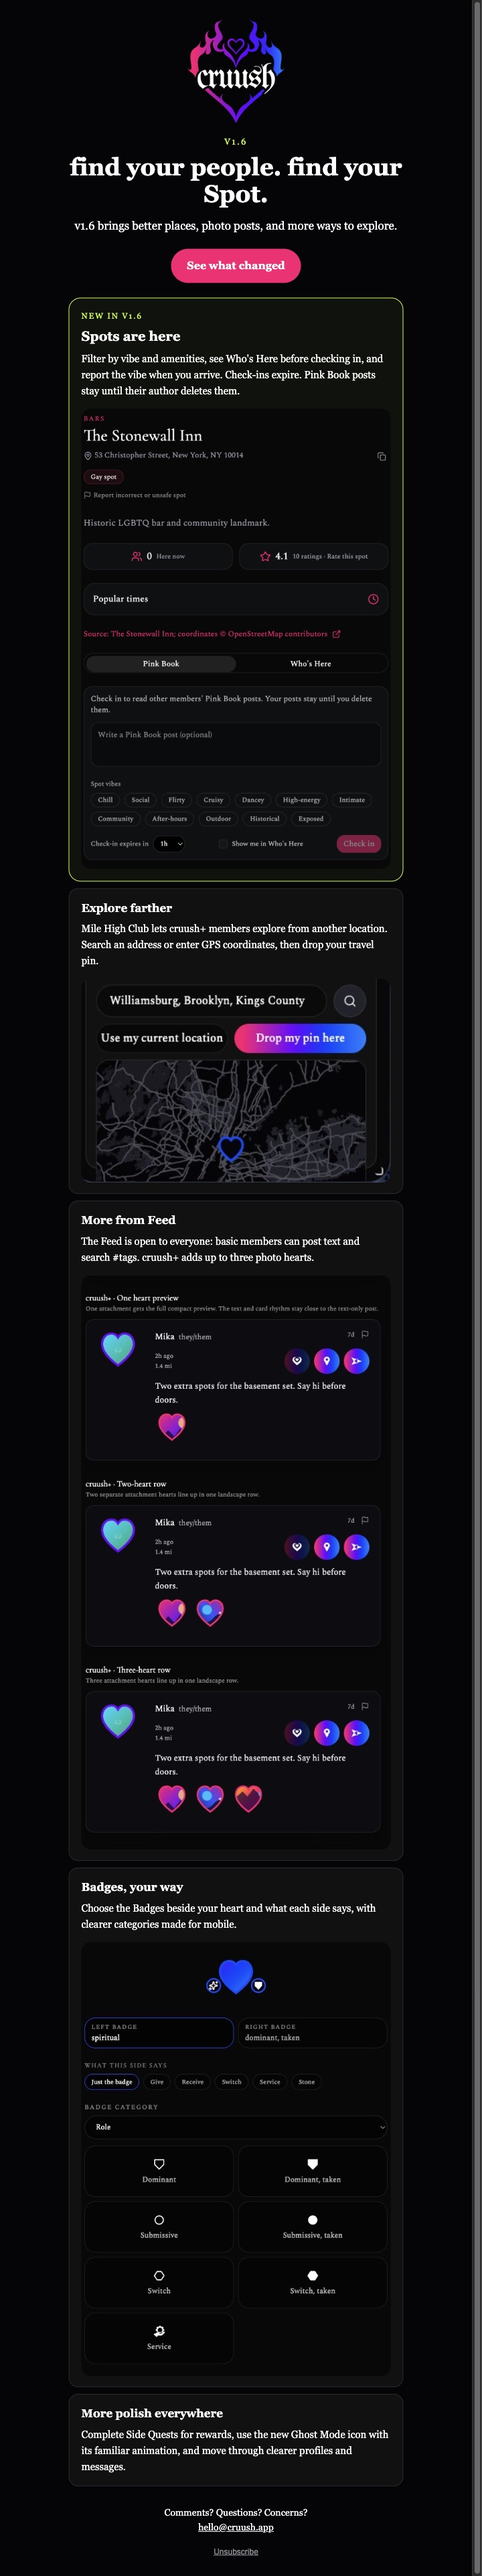
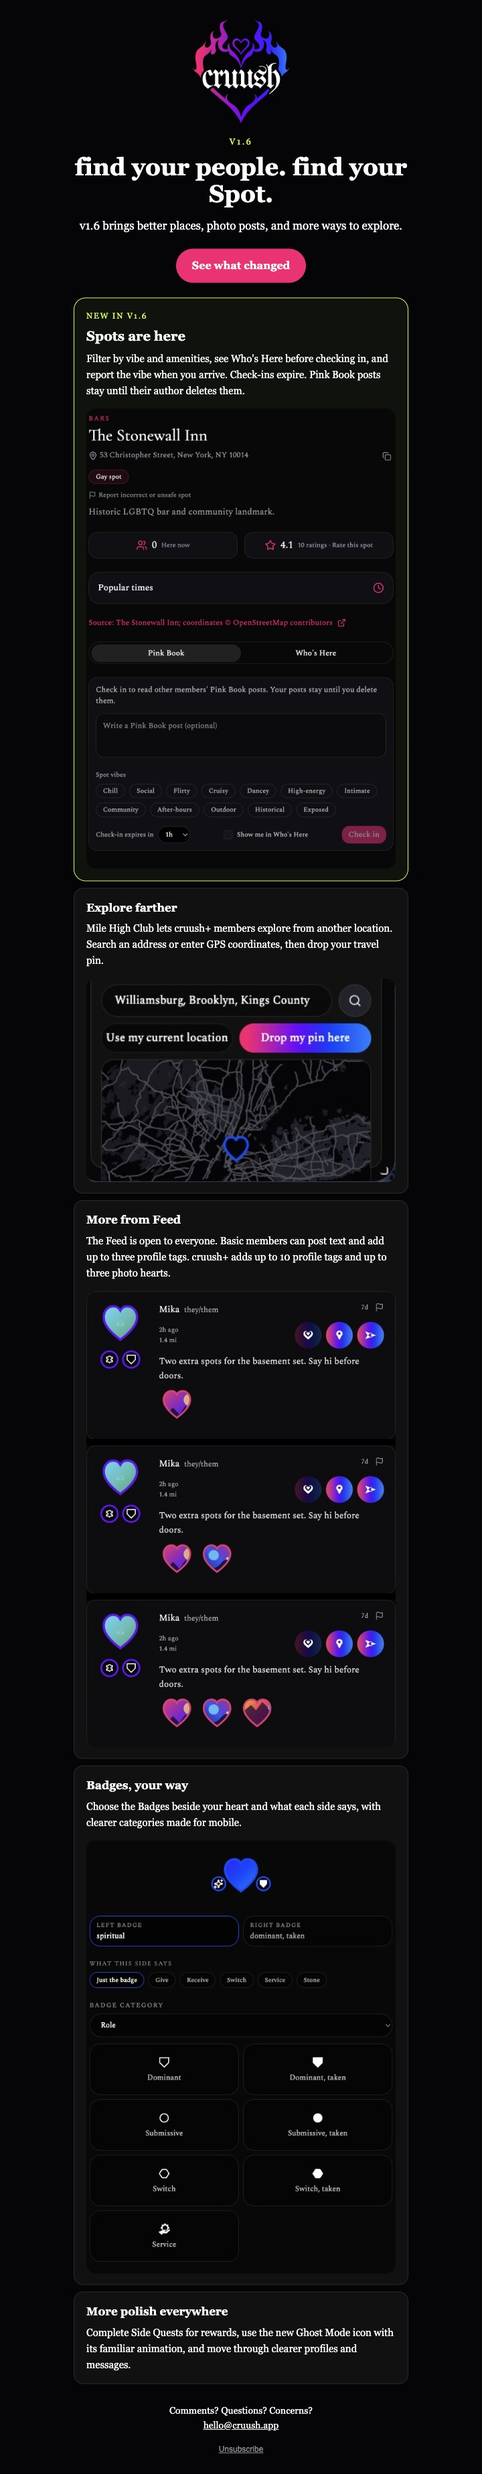
fix: finish v1.6 spot and entitlement UI

diff --git a/src/app/components/ProfileEdit.tsx b/src/app/components/ProfileEdit.tsx
@@ -71,7 +71,8 @@ const MAX_PROFILE_GROUP_SELECTIONS = 3;
 const MAX_PROFILE_VIBES = 3;
 const MAX_PROFILE_HOBBIES = 3;
 const MAX_PROFILE_KINKS = 5;
-const MAX_PROFILE_TAGS = 5;
+const BASIC_PROFILE_TAGS = 3;
+const CRUUSH_PLUS_PROFILE_TAGS = 10;
 /** cruush+ lifts the ceiling rather than raising it. */
 const UNLIMITED_PROFILE_KINKS = Number.POSITIVE_INFINITY;
 const MAX_GENDER_IDENTITIES = MAX_PROFILE_GROUP_SELECTIONS;
@@ -506,12 +507,16 @@ function sanitizeVisibilityRules(profile: ProfilePayload): ProfileVisibilityRule
   };
 }
 
-function toProfileSavePayload(profile: ProfilePayload, kinkLimit: number = MAX_PROFILE_KINKS): ProfilePayload {
+function toProfileSavePayload(
+  profile: ProfilePayload,
+  kinkLimit: number = MAX_PROFILE_KINKS,
+  profileTagLimit: number = BASIC_PROFILE_TAGS,
+): ProfilePayload {
   return {
     display_name: getSaveDisplayName(profile),
     photos: sanitizeProfilePhotos(profile.photos ?? []),
     bio: (profile.bio ?? '').trim(),
-    tags: uniqueValues(profile.tags ?? []).map(normalizeProfileTag).filter(Boolean).slice(0, MAX_PROFILE_TAGS),
+    tags: uniqueValues(profile.tags ?? []).map(normalizeProfileTag).filter(Boolean).slice(0, profileTagLimit),
     signal: (profile.signal ?? '').trim(),
     pronouns: limitToThree(profile.pronouns ?? []),
     custom_pronouns: (profile.custom_pronouns ?? '').trim(),
@@ -733,6 +738,7 @@ export default function ProfileEdit({ embedded = false, onCancel, onSaved }: Pro
   }, []);
 
   const kinkLimit = cruushPlus ? UNLIMITED_PROFILE_KINKS : MAX_PROFILE_KINKS;
+  const profileTagLimit = cruushPlus ? CRUUSH_PLUS_PROFILE_TAGS : BASIC_PROFILE_TAGS;
 
   const handleKinksChange = (selectedKinks: string[]) => {
     setProfile((prev) => {
@@ -753,7 +759,7 @@ export default function ProfileEdit({ embedded = false, onCancel, onSaved }: Pro
     setSaving(true);
     setError(null);
     try {
-      const savedProfile = await saveMyProfile(toProfileSavePayload(profile, kinkLimit));
+      const savedProfile = await saveMyProfile(toProfileSavePayload(profile, kinkLimit, profileTagLimit));
       if (profileSaveRequestRef.current !== requestId) {
         return;
       }
@@ -785,7 +791,7 @@ export default function ProfileEdit({ embedded = false, onCancel, onSaved }: Pro
     setPhotoUploadError(null);
 
     try {
-      const savedProfile = await saveMyProfile(toProfileSavePayload(nextProfile, kinkLimit));
+      const savedProfile = await saveMyProfile(toProfileSavePayload(nextProfile, kinkLimit, profileTagLimit));
 
       if (profileSaveRequestRef.current === requestId) {
         applySavedProfile(savedProfile);
@@ -996,7 +1002,7 @@ export default function ProfileEdit({ embedded = false, onCancel, onSaved }: Pro
   const normalizedProfile: ProfilePayload = {
     ...profile,
     photos: sanitizeProfilePhotos(profile.photos || []),
-    tags: uniqueValues(profile.tags || []).map(normalizeProfileTag).filter(Boolean).slice(0, MAX_PROFILE_TAGS),
+    tags: uniqueValues(profile.tags || []).map(normalizeProfileTag).filter(Boolean).slice(0, profileTagLimit),
     signal: profile.signal ?? '',
     pronouns: profile.pronouns || [],
     identities: limitGenderIdentities(profile.identities || []),
@@ -1223,7 +1229,7 @@ export default function ProfileEdit({ embedded = false, onCancel, onSaved }: Pro
                 onChange={e => handleChange('bio', e.target.value)}
                 className="min-h-[120px] bg-input-background"
               />
-              <p className="text-xs text-muted-foreground">Add tags below so people can find your profile in Seeking and Visibility.</p>
+              <p className="text-xs text-muted-foreground">Add tags below so people can find your profile in Seeking and Visibility. Basic includes 3; cruush+ includes 10.</p>
             </div>
 
             <div className="space-y-2">
@@ -1233,7 +1239,7 @@ export default function ProfileEdit({ embedded = false, onCancel, onSaved }: Pro
                 <input
                   aria-label="Add profile tag"
                   className="h-10 min-w-0 flex-1 bg-transparent text-sm text-white outline-none placeholder:text-white/45"
-                  disabled={normalizedProfile.tags.length >= MAX_PROFILE_TAGS}
+                  disabled={normalizedProfile.tags.length >= profileTagLimit}
                   id="profile-tags"
                   maxLength={25}
                   onChange={(event) => setProfileTagDraft(event.target.value)}
@@ -1241,7 +1247,7 @@ export default function ProfileEdit({ embedded = false, onCancel, onSaved }: Pro
                     if (event.key !== 'Enter') return;
                     event.preventDefault();
                     const tag = normalizeProfileTag(profileTagDraft);
-                    if (!tag || normalizedProfile.tags.includes(tag) || normalizedProfile.tags.length >= MAX_PROFILE_TAGS) return;
+                    if (!tag || normalizedProfile.tags.includes(tag) || normalizedProfile.tags.length >= profileTagLimit) return;
                     handleChange('tags', [...normalizedProfile.tags, tag]);
                     setProfileTagDraft('');
                   }}
@@ -1250,10 +1256,10 @@ export default function ProfileEdit({ embedded = false, onCancel, onSaved }: Pro
                 />
                 <button
                   className="text-sm font-semibold text-white/72 disabled:opacity-35"
-                  disabled={!normalizeProfileTag(profileTagDraft) || normalizedProfile.tags.includes(normalizeProfileTag(profileTagDraft)) || normalizedProfile.tags.length >= MAX_PROFILE_TAGS}
+                  disabled={!normalizeProfileTag(profileTagDraft) || normalizedProfile.tags.includes(normalizeProfileTag(profileTagDraft)) || normalizedProfile.tags.length >= profileTagLimit}
                   onClick={() => {
                     const tag = normalizeProfileTag(profileTagDraft);
-                    if (!tag || normalizedProfile.tags.includes(tag) || normalizedProfile.tags.length >= MAX_PROFILE_TAGS) return;
+                    if (!tag || normalizedProfile.tags.includes(tag) || normalizedProfile.tags.length >= profileTagLimit) return;
                     handleChange('tags', [...normalizedProfile.tags, tag]);
                     setProfileTagDraft('');
                   }}

diff --git a/src/app/components/PlaceDetail.tsx b/src/app/components/PlaceDetail.tsx
@@ -361,7 +361,7 @@ export default function PlaceDetail({ embedded = false, placeIdOverride }: Place
           <button type="button" className="mt-3 inline-flex items-center text-xs text-white/50 hover:text-white" onClick={() => embedded ? setReportTarget({ targetType: 'place', targetId: place.id, targetLabel: place.name }) : navigate('/report', { state: { targetType: 'place', placeId: place.id, targetLabel: place.name } })}><Flag className="mr-1 h-3.5 w-3.5" />Report incorrect or unsafe spot</button>
         </div>
 
-        {place.description ? <p className="order-4 text-muted-foreground">{place.description}</p> : null}
+        {place.description ? <p className="order-4 -mt-5 text-muted-foreground">{place.description}</p> : null}
 
         <div className="order-5 grid grid-cols-2 gap-3 sm:gap-4">
           <div className="flex min-h-12 items-center justify-center gap-2 rounded-lg border border-border bg-card px-3 py-2 text-center sm:block sm:p-4">
@@ -421,9 +421,9 @@ export default function PlaceDetail({ embedded = false, placeIdOverride }: Place
               ) : null}
             </div>
           ) : null}
-          <TabsList className="w-full grid grid-cols-2">
-            <TabsTrigger value="feed">Pink Book</TabsTrigger>
-            <TabsTrigger value="here">Who's Here</TabsTrigger>
+          <TabsList className="grid h-10 w-full grid-cols-2 p-1">
+            <TabsTrigger className="h-8 rounded-full py-0" value="feed">Pink Book</TabsTrigger>
+            <TabsTrigger className="h-8 rounded-full py-0" value="here">Who's Here</TabsTrigger>
           </TabsList>
 
           <TabsContent value="feed" className="space-y-4 mt-4">

diff --git a/src/app/components/FeedPhotoPreview.tsx b/src/app/components/FeedPhotoPreview.tsx
@@ -2,6 +2,7 @@ import { useState, type ChangeEvent, type ReactNode } from 'react';
 import { ArrowLeft, Flag, Trash2 } from 'lucide-react';
 import { useNavigate } from 'react-router';
 import type { FeedPhoto } from '../lib/postApi';
+import type { SideBadges } from '../lib/profileApi';
 import FeedAttachmentPreview from './FeedAttachmentPreview';
 import FeedPhotoViewer from './FeedPhotoViewer';
 import HeartPhoto from './HeartPhoto';
@@ -30,6 +31,11 @@ const PREVIEW_FEED_PHOTOS: readonly FeedPhoto[] = PREVIEW_PHOTOS.map((url, index
   explicit: false,
 }));
 
+const PREVIEW_SIDE_BADGES: SideBadges = {
+  left: { badge_id: 'leather', intent: 'none', frame: 'circle' },
+  right: { badge_id: 'dominant', intent: 'none', frame: 'diamond' },
+};
+
 const POSTS = [
   {
     id: 'text-only',
@@ -42,6 +48,7 @@ const POSTS = [
     vibes: ['GOTH', 'LEATHER', 'CAM'],
     theme: 'nearby' as const,
     owner: true,
+    sideBadges: PREVIEW_SIDE_BADGES,
   },
   {
     id: 'photo-post',
@@ -54,6 +61,7 @@ const POSTS = [
     vibes: ['MUSIC', 'DANCE', 'LATE'],
     theme: 'mutual' as const,
     owner: false,
+    sideBadges: PREVIEW_SIDE_BADGES,
   },
 ] as const;
 
@@ -82,6 +90,7 @@ function PostChrome({ post, children, heartSize }: {
       )}
       name={post.author}
       pronouns={post.pronouns}
+      sideBadges={post.sideBadges}
       metadata={(
         <div className="flex h-11 min-w-0 flex-col justify-center gap-0.5 overflow-hidden text-xs leading-snug text-white/62 sm:text-sm">
           <span className="truncate">{post.age}</span>

diff --git a/docs/previews/cruush-1.6-update-email.html b/docs/previews/cruush-1.6-update-email.html
@@ -65,7 +65,7 @@
                         <tr>
                           <td align="left" bgcolor="#111111" style="padding:16px 18px;border:1px solid #2a2a2d;border-radius:14px;background-color:#111111;color:#ffffff;text-align:left;">
                             <p style="margin:0 0 7px;color:#ffffff;font-size:17px;line-height:1.45;font-weight:700;">More from Feed</p>
-                            <p style="margin:0 0 15px;color:#ffffff;font-size:15px;line-height:1.6;">The Feed is open to everyone: basic members can post text and search #tags. cruush+ adds up to three photo hearts.</p>
+                            <p style="margin:0 0 15px;color:#ffffff;font-size:15px;line-height:1.6;">The Feed is open to everyone. Basic members can post text and add up to three profile tags. cruush+ adds up to 10 profile tags and up to three photo hearts.</p>
                             <img alt="One, two, and three Feed photos shown as landscape rows of hearts" src="https://cruush.app/email/cruush-v1.6-feed-photos.jpg" style="display:block;width:100%;max-width:464px;height:auto;border:0;border-radius:14px;background:#08080a;" width="464" />
                           </td>
                         </tr>

diff --git a/server/src/routes/profiles.ts b/server/src/routes/profiles.ts
@@ -5,6 +5,7 @@ import { canStartDirectMessage } from "../cruush-match-settings.js";
 import { runTransaction, type DbClient } from "../db.js";
 import { ApiError } from "../errors.js";
 import {
+  getCruushEntitlement,
   getRelationshipPermissions,
   getEffectiveVisibilityPolicy,
   getPrivacySettings,
@@ -1738,6 +1739,13 @@ export async function registerProfileRoutes(app: FastifyInstance) {
   app.put("/api/profiles/me", async (request, reply) => {
     const userId = await getActiveAccountUserId(request);
     const parsedPayload = profilePayloadSchema.parse(request.body);
+
+    if (parsedPayload.tags.length > 3) {
+      const entitlement = await getCruushEntitlement(app, userId);
+      if (!entitlement.cruushPlus) {
+        throw new ApiError(402, "CRUUSH_PLUS_REQUIRED", "Upgrade to cruush+ to add up to 10 profile tags.");
+      }
+    }
 
     if (countVisibilityExclusionFilters(parsedPayload.visibility_rules) > FREE_VISIBILITY_EXCLUSION_LIMIT) {
       await requireCruushPlus(app, userId, VISIBILITY_EXCLUSION_LIMIT_MESSAGE);

diff --git a/src/app/components/Rewards.tsx b/src/app/components/Rewards.tsx
@@ -288,14 +288,12 @@ export default function Rewards() {
               </AccordionTrigger>
               <AccordionContent className="px-6 pb-6">
                 <ul aria-label="cruush+ features" className="grid gap-3 sm:grid-cols-2">
-                  {CRUUSH_PLUS_FEATURES.map((feature, index) => (
+                  {CRUUSH_PLUS_FEATURES.map((feature) => (
                     <li
                       className="rounded-xl border border-white/20 p-3 shadow-[inset_0_1px_0_rgba(255,255,255,0.18),0_10px_30px_rgba(255,0,114,0.18)]"
                       key={feature.title}
                       style={{
-                        background: index % 2 === 0
-                          ? 'var(--cruush-gradient-soft-28)'
-                          : 'var(--cruush-gradient)',
+                        background: 'var(--cruush-gradient)',
                       }}
                     >
                       <p className="font-semibold text-white">{feature.title}</p>

diff --git a/src/app/components/MapView.tsx b/src/app/components/MapView.tsx
@@ -1644,10 +1644,13 @@ function VenueClusterMarker({ marker }: { marker: MapMarker }) {
 
   return (
     <span
-      className="flex h-16 min-w-16 items-center justify-center rounded-full border border-[3.2px] border-[#FF0072]/45 bg-black/82 px-4 text-xl font-semibold text-white shadow-[0_0_38px_rgba(255,0,114,0.55)] backdrop-blur-md"
+      className="relative left-8 top-6 flex h-12 w-12 rotate-45 items-center justify-center rounded-[0.7rem] border-2 border-[#55C8FF] bg-black/94 text-white shadow-[0_0_10px_rgba(20,157,255,0.95),0_0_24px_rgba(21,79,255,0.62)] backdrop-blur-md"
       data-testid={`venue-cluster-marker-${marker.cluster?.id ?? marker.id}`}
     >
-      {count > 999 ? '999+' : count}
+      <span className="flex -rotate-45 items-center gap-1 text-base font-semibold">
+        <MapPinned className="h-3.5 w-3.5" />
+        {count > 999 ? '999+' : count}
+      </span>
     </span>
   );
 }

diff --git a/src/app/lib/cruushPlusFeatures.ts b/src/app/lib/cruushPlusFeatures.ts
@@ -16,7 +16,7 @@ export const CRUUSH_PLUS_FEATURES = [
   },
   {
     title: 'Feed+',
-    description: 'Post to a specific Crowd and choose when your post expires.',
+    description: 'Add up to three photo hearts, post to a specific Crowd, and choose when your post expires.',
   },
   {
     title: 'Cruise carousel',
@@ -24,7 +24,7 @@ export const CRUUSH_PLUS_FEATURES = [
   },
   {
     title: 'All seeking and visibility controls',
-    description: 'Use all seeking filters, combine more visibility controls, and save visibility sets.',
+    description: 'Use all seeking filters, combine more visibility controls, save visibility sets, and add up to 10 searchable profile tags. Basic includes 3.',
   },
   {
     title: 'Dark Room',

diff --git a/src/app/components/ProfileView.tsx b/src/app/components/ProfileView.tsx
@@ -180,7 +180,11 @@ export function profileRecordToProfileView(
     vibes: [...new Set([...profile.vibes, ...profile.scenes, ...profile.archetypes])],
     kinks: profile.kinks,
     hobbies: profile.hobbies,
-    protection: [...profile.condoms, ...profile.prep, ...profile.doxypep].filter(Boolean),
+    protection: [
+      ...profile.condoms.map((value) => `Condoms: ${value}`),
+      ...profile.prep.map((value) => `PrEP: ${value}`),
+      ...profile.doxypep.map((value) => `DoxyPEP: ${value}`),
+    ].filter(Boolean),
     hivStatus: formatSingle(profile.hiv_status),
     covidStatus: formatSingle(profile.covid_vaccine),
     mpoxStatus: formatSingle(profile.mpox_vaccine),

diff --git a/server/src/profile-schema.ts b/server/src/profile-schema.ts
@@ -235,7 +235,7 @@ export const sideBadgesSchema = z.object({
 
 const profileTagsSchema = z.array(
   z.string().trim().regex(/^#?[a-zA-Z0-9_]{1,24}$/, "Tags can use letters, numbers, and underscores."),
-).max(5).optional().default([]).transform((values) => (
+).max(10).optional().default([]).transform((values) => (
   [...new Set(values.map((value) => value.replace(/^#/, "").toLowerCase()))]
 ));
 

diff --git a/DESIGN_DECISIONS.md b/DESIGN_DECISIONS.md
@@ -8,5 +8,9 @@
 - The Spot board is called the Pink Book. Its section sits below source attribution. Check-in includes an optional Pink Book post. An active check-in is required to read other members' posts, but authors can always view and delete their own posts after checkout.
 - Badge categories must be explicit on mobile, never discoverable only by horizontal scrolling. Preserve every deliberately selected custom, Hanky, role, position, and Pride badge glyph. Saved side badges sit beneath the heart photo on Feed, Messages, and Cruushes.
 - Profile Tags are a separate field directly below Bio. They are moderated with the rest of the profile, display directly below About, and match the shared Seeking and Visibility text search with or without a leading `#`.
+- Basic members can save up to 3 profile tags. cruush+ members can save up to 10. Basic Feed posts are text-only; cruush+ Feed posts can attach up to 3 photo hearts.
+- Circular numbered map clusters are people-only and open only those profiles. Spot clusters stay separate, use the blue diamond Spot style, and open only those Spots.
+- Profile protection answers always keep their field labels so repeated values such as "yes" remain understandable.
+- Every benefit card on the cruush+ page uses the bright product gradient.
 - Mile High Club is a full page on mobile. On desktop it may replace Settings inside the existing map popup because desktop Settings itself is embedded there; it must not open a second popup.
 - On mobile Spot detail, Here now and rating summaries stay compact so Pink Book and Who's Here appear in the initial screen.
